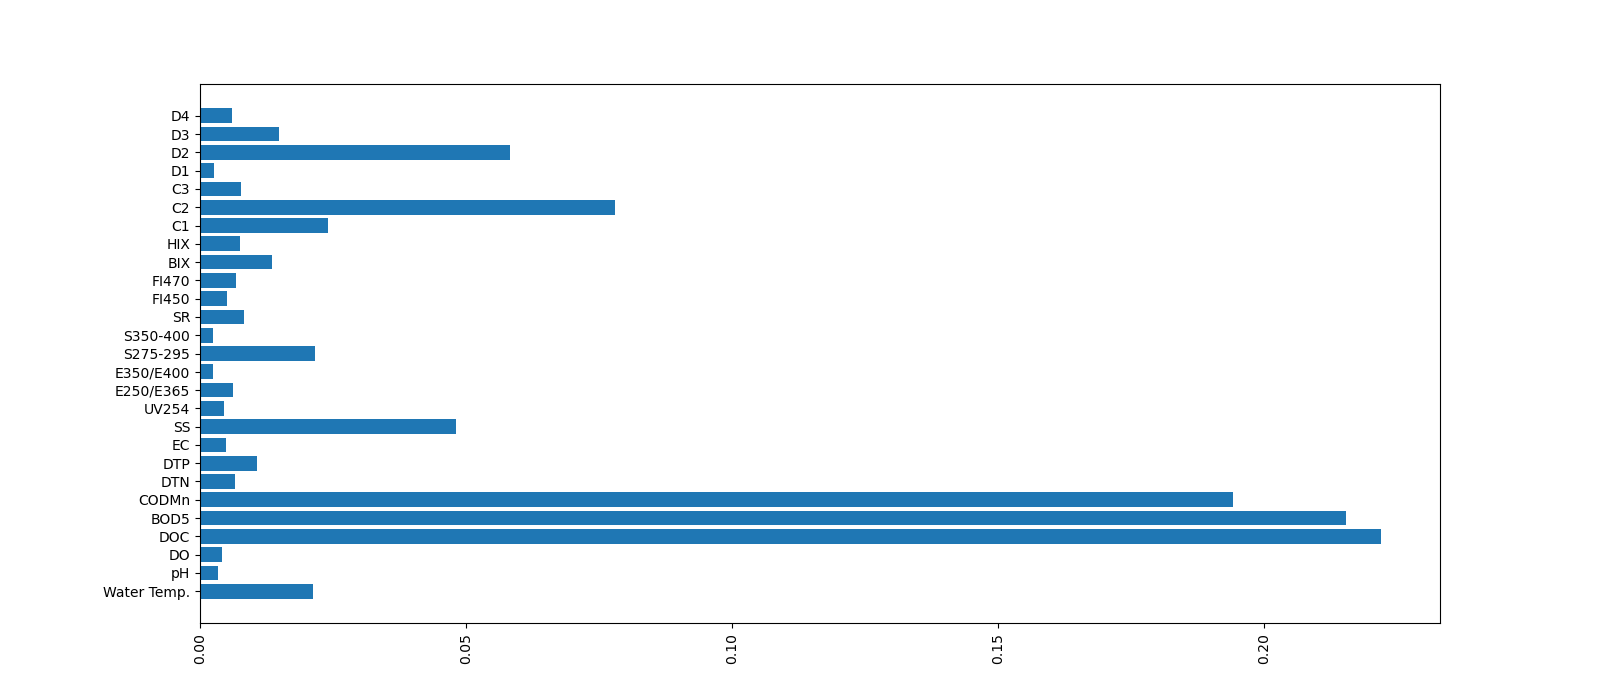
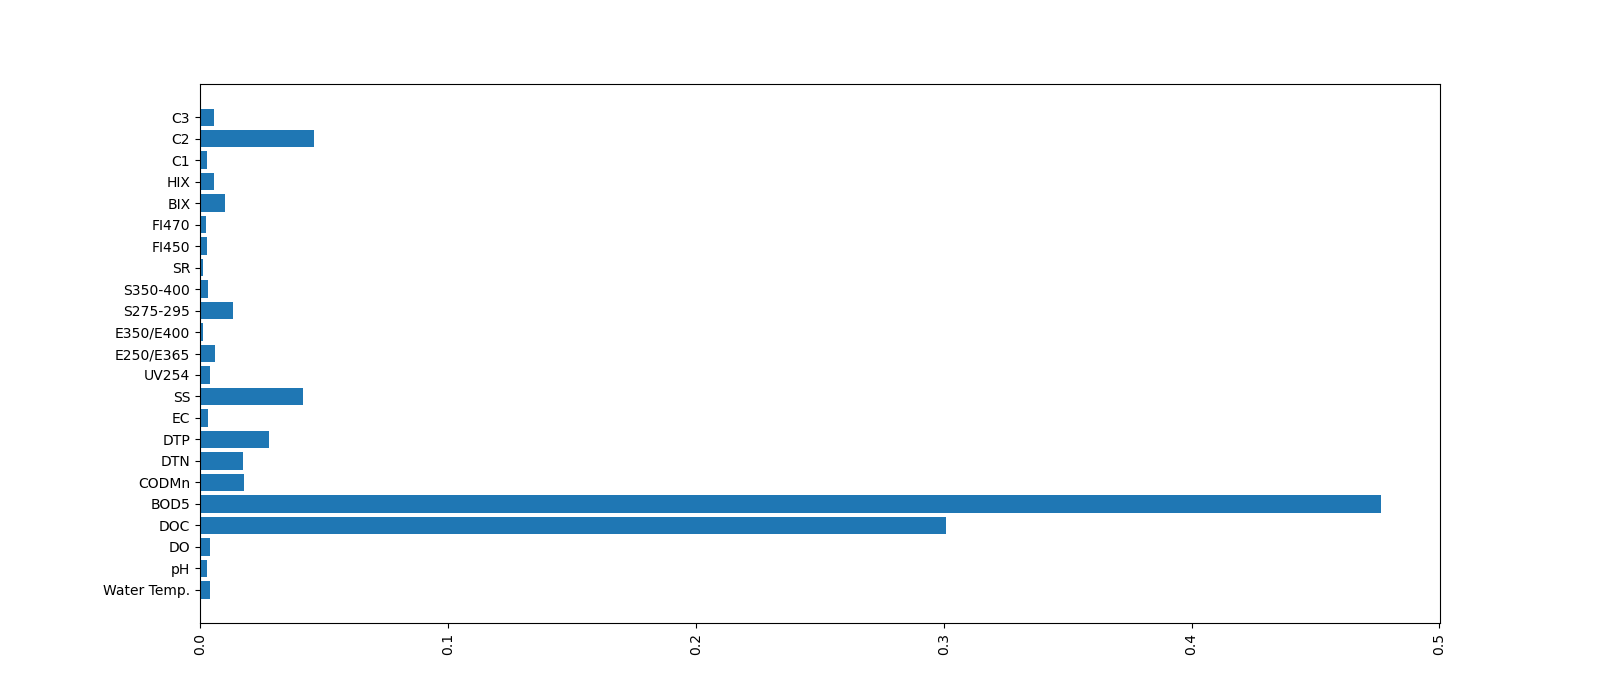
Use kfold

Changed region(s): [[0.0625, 0.15, 0.875, 0.87]]

diff --git a/common_kFold_train.py b/common_kFold_train.py
@@ -40,10 +40,9 @@ def run_xgboost(X_trains, y_trains, X_test, y_test, scaler, case='1'):
     r2_train = 1
 
     test_results = model.predict(X_test)
-    mae_test, r2_test = evaluate(
+    mae_test, r2_test, mse_test = evaluate(
         scaler, y_test, test_results, "xgboost", "test", case)
     # r2_test = mae_test
-    mse_test = mean_squared_error(y_test, test_results)
     return mae_train, r2_train, mae_test, r2_test, mse_test
 
 
@@ -58,70 +57,88 @@ def run_linear_regression(X_trains, y_trains, X_test, y_test, scaler, case='1'):
         #     scaler, y_train, train_results, "linear_regression", "train")
 
     test_results = model.predict(X_test)
-    mae_test, r2_test = evaluate(
+    mae_test, r2_test, mse_test = evaluate(
         scaler, y_test, test_results, 'linear_regression', 'test', case)
     mae_train = 1
-    mse_test = mean_squared_error(y_test, test_results)
     r2_train = 1
     # r2_test = mae_test
     # r2_test = mean_squared_error(y_test, test_results)
     return mae_train, r2_train, mae_test, r2_test, mse_test
 
 
-def run_ridge_regression(X_train, y_train, X_test, y_test, scaler):
+def run_ridge_regression(X_trains, y_trains, X_test, y_test, scaler):
     model = linear_model.Ridge(alpha=.5)
-    model.fit(X_train, y_train)
     name_model = 'ridge_regression'
-    train_results = model.predict(X_train)
-    mae_train, r2_train = evaluate(
-        scaler, y_train, train_results, name_model, "train")
-
+    for i in range(0, len(X_trains)):
+        x_train = X_trains[i]
+        y_train = y_trains[i]
+        model.fit(x_train, y_train)
+        train_results = model.predict(x_train)
+        # mae_train, r2_train = evaluate(
+        #     scaler, y_train, train_results, "linear_regression", "train")
+    mae_train = 1
+    r2_train = 1
     test_results = model.predict(X_test)
-    mae_test, r2_test = evaluate(
+    mae_test, r2_test, mse_test = evaluate(
         scaler, y_test, test_results, name_model, 'test')
-    return mae_train, r2_train, mae_test, r2_test
+    return mae_train, r2_train, mae_test, r2_test, mse_test
 
 
-def run_lasso_regression(X_train, y_train, X_test, y_test, scaler):
-    model = linear_model.Lasso(alpha=.1)
-    model.fit(X_train, y_train)
+def run_lasso_regression(X_trains, y_trains, X_test, y_test, scaler):
     name_model = 'lasso_regression'
-    train_results = model.predict(X_train)
-    mae_train, r2_train = evaluate(
-        scaler, y_train, train_results, name_model, "train")
+    model = linear_model.Lasso(alpha=.1)
+    for i in range(0, len(X_trains)):
+        x_train = X_trains[i]
+        y_train = y_trains[i]
+        model.fit(x_train, y_train)
+        train_results = model.predict(x_train)
+        # mae_train, r2_train = evaluate(
+        #     scaler, y_train, train_results, "linear_regression", "train")
+    mae_train = 1
+    r2_train = 1
 
     test_results = model.predict(X_test)
-    mae_test, r2_test = evaluate(
+    mae_test, r2_test, mse_test = evaluate(
         scaler, y_test, test_results, name_model, 'test')
-    return mae_train, r2_train, mae_test, r2_test
+    return mae_train, r2_train, mae_test, r2_test, mse_test
 
 
-def run_lasso_lars_regression(X_train, y_train, X_test, y_test, scaler):
-    model = linear_model.LassoLars(alpha=.1, normalize=False)
-    model.fit(X_train, y_train)
+def run_lasso_lars_regression(X_trains, y_trains, X_test, y_test, scaler):
     name_model = 'lasso_lars_regression'
-    train_results = model.predict(X_train)
-    mae_train, r2_train = evaluate(
-        scaler, y_train, train_results, name_model, "train")
+    model = linear_model.LassoLars(alpha=.1, normalize=False)
+    for i in range(0, len(X_trains)):
+        x_train = X_trains[i]
+        y_train = y_trains[i]
+        model.fit(x_train, y_train)
+        train_results = model.predict(x_train)
+        # mae_train, r2_train = evaluate(
+        #     scaler, y_train, train_results, "linear_regression", "train")
+    mae_train = 1
+    r2_train = 1
 
     test_results = model.predict(X_test)
-    mae_test, r2_test = evaluate(
+    mae_test, r2_test, mse_test = evaluate(
         scaler, y_test, test_results, name_model, 'test')
-    return mae_train, r2_train, mae_test, r2_test
+    return mae_train, r2_train, mae_test, r2_test, mse_test
 
 
-def run_bayesian_ridge_regression(X_train, y_train, X_test, y_test, scaler):
-    model = linear_model.BayesianRidge()
-    model.fit(X_train, y_train)
+def run_bayesian_ridge_regression(X_trains, y_trains, X_test, y_test, scaler):
     name_model = 'bayesian_ridge_regression'
-    train_results = model.predict(X_train)
-    mae_train, r2_train = evaluate(
-        scaler, y_train, train_results, name_model, "train")
+    model = linear_model.BayesianRidge()
+    for i in range(0, len(X_trains)):
+        x_train = X_trains[i]
+        y_train = y_trains[i]
+        model.fit(x_train, y_train)
+        train_results = model.predict(x_train)
+        # mae_train, r2_train = evaluate(
+        #     scaler, y_train, train_results, "linear_regression", "train")
+    mae_train = 1
+    r2_train = 1
 
     test_results = model.predict(X_test)
-    mae_test, r2_test = evaluate(
+    mae_test, r2_test, mse_test = evaluate(
         scaler, y_test, test_results, name_model, 'test')
-    return mae_train, r2_train, mae_test, r2_test
+    return mae_train, r2_train, mae_test, r2_test, mse_test
 
 
 def run_generalized_linear_regression(X_train, y_train, X_test, y_test, scaler):
@@ -361,9 +378,8 @@ def run_stacking(X_trains, y_trains, X_test, y_test, scaler):
     r2_train = 1
 
     test_results = models.predict(X_test)
-    mae_test, r2_test = evaluate(
+    mae_test, r2_test, mse_test = evaluate(
         scaler, y_test, test_results, "stacking_v2", "test")
-    mse_test = mean_squared_error(y_test, test_results)
     r2_train = 1
     # r2_test = mae_test
     # r2_test = mean_squared_error(y_test, test_results)
@@ -395,13 +411,12 @@ def evaluate(scaler, gt, pred, algo, phase_name, case='1'):
         os.makedirs(output_log)
     # gt = scaler.inverse_transform(gt)
     # pred = scaler.inverse_transform(pred)
-    # data_predicted = scaler[:,i]
-    # pred_ori = pred - scaler.min_[-1] # aqmesh
-    # pred_ori /= scaler.scale_[-1] # aqmesh
-    # gt_ori = gt - scaler.min_[-1] # aqmesh
-    # gt_ori /= scaler.scale_[-1] # aqmesh
-    pred_ori = pred
-    gt_ori = gt
+    pred_ori = pred - scaler.min_[-1]  # aqmesh
+    pred_ori /= scaler.scale_[-1]  # aqmesh
+    gt_ori = gt - scaler.min_[-1]  # aqmesh
+    gt_ori /= scaler.scale_[-1]  # aqmesh
+    # pred_ori = pred
+    # gt_ori = gt
 
     mae = mean_absolute_error(gt_ori, pred_ori)
     r2 = r2_score(gt_ori, pred_ori)
@@ -412,4 +427,5 @@ def evaluate(scaler, gt, pred, algo, phase_name, case='1'):
         output_log, "pred_{}_{}_{}.png".format(algo, phase_name, case)))
     plt.close()
     # mae = mean_squared_error(gt, pred)
-    return mae, r2
+    mse = mean_squared_error(gt_ori, pred_ori)
+    return mae, r2, mse

diff --git a/main_chl_kFold_train.py b/main_chl_kFold_train.py
@@ -64,7 +64,14 @@ if __name__ == "__main__":
     # }
     list_features = {
         # "water": ["Water Temp.", "pH", "DO", "DOC", "BOD5", "CODMn", "DTN", "DTP", "EC", "SS", "Chl-a"],
-        "water_1": ["Water Temp.", "pH", "DO", "DOC", "BOD5", "DTN", "DTP", "EC", "SS", "C1", "C2", "C3", "Chl-a"],
+
+        # "water_1": ["Water Temp.", "pH", "DO", "DOC", "BOD5", "CODMn", "DTN", "DTP", "C1", "C2", "C3", "EC", "SS",  "FI470", "BIX", "HIX", "Chl-a"],
+        # # !replace DTP and DTN
+        # "water_replace_DTN": ["Water Temp.", "pH", "DO", "DOC", "BOD5", "CODMn", "EC", "SS", "FI470", "BIX", "HIX", "Chl-a"],
+        # !replace BOD with optics
+        "water_replace_BOD": ["Water Temp.", "pH", "DO", "DOC", "CODMn", "DTN", "DTP", "EC", "SS", "FI470", "BIX", "HIX", "C2", "Chl-a"]
+        # # !replace DOC with optics
+        # "water_replace_DOC": ["Water Temp.", "pH", "DO", "BOD5", "CODMn", "DTN", "DTP", "EC", "SS", "FI470", "BIX", "HIX", "C2", "Chl-a"]
         # "water_1_uv": ["Water Temp.", "pH",  "BOD5", "CODMn",  "EC", "SS", "Chl-a"],
         # "water_uv": ["Water Temp.", "pH", "DO", "DOC", "BOD5", "CODMn", "DTN", "DTP", "EC", "SS","C1","C2","C3", "Chl-a"],
         # "water_test_fluorence": ["Water Temp.", "pH", "DO", "DOC", "BOD5", "CODMn", "DTP", "FI450", "FI470", "BIX", "HIX", "Chl-a"],
@@ -96,7 +103,10 @@ if __name__ == "__main__":
     }
     # models = ["linear_regression", "ridge_regression",
     #           "lasso_regression", "lasso_lars_regression", "bayesian_ridge_regression", "generalized_linear_regression", "kernel_ridge", "svm_regression", "KNeighbor_regression", "PLSRegression", "decision_tree_regression", "stacking"]
-    models = ["linear_regression", "xgboost", "stacking"]
+    # !TODO: model best for result
+    # models = ["linear_regression", "stacking"]
+    models = ["linear_regression", "stacking",  "xgboost",
+              "ridge_regression",  "bayesian_ridge_regression"]
     print(f'Total model using: {len(models)}')
     use_kfold = True
     range_using = 20
@@ -184,7 +194,7 @@ if __name__ == "__main__":
         # print(
         #     f'Model name: {model_name}  - min: {min_in_model} avg: {avg_value_model} max:{max_in_model}')
         avg_value_model = round(avg_value_model, 2)
-        print(f'Model name: {model_name} avg: {avg_value_model}')
+        mean_r2 = avg_value_model
 
         count_value_in_model = 0
         for each_couple_value in test_list:
@@ -192,7 +202,8 @@ if __name__ == "__main__":
             count_value_in_model += current_model_value['mae_test']
         avg_value_model = count_value_in_model/range_using
         avg_value_model = round(avg_value_model, 2)
-        print(f'Model name: {model_name} mean_mae: {avg_value_model}')
+        # print(f'Model name: {model_name} mean_mae: {avg_value_model}')
+        mean_mae = avg_value_model
 
         count_value_in_model = 0
         for each_couple_value in test_list:
@@ -200,4 +211,6 @@ if __name__ == "__main__":
             count_value_in_model += current_model_value['mse_test']
         avg_value_model = count_value_in_model/range_using
         avg_value_model = round(avg_value_model, 2)
-        print(f'Model name: {model_name} mean_mse: {avg_value_model}')
+        mean_mse = avg_value_model
+        # print(f'Model name: {model_name} mean_mse: {avg_value_model}')
+        print(f'{model_name} - {mean_r2} - {mean_mae} - {mean_mse}')

diff --git a/analysis/correlation_fi.py b/analysis/correlation_fi.py
@@ -149,13 +149,15 @@ def corrplot(data, size_scale=500, marker='s'):
 
 
 # dataset_frame = get_data_dataframe()
-# data = pd.read_csv('../data/clo.csv', usecols=["Water Temp.","pH","DO","DOC","BOD5","CODMn","DTN","DTP","EC","SS","UV254","E250/E365","E350/E400","S275-295","S350-400","SR","FI450","FI470","BIX","HIX","C1","C2","C3","D1","D2","D3","D4","Chl-a"])
-# plt.figure(figsize=(10, 10))
-# corrplot(data.corr())
-# plt.savefig('heatmap.png')
-
-data = pd.read_csv('../data/clo.csv', usecols=[
-    "FI450", "FI470", "BIX", "HIX", "C1", "C2", "C3", "D1", "D2", "D3", "D4", "Chl-a"])
+# !Code sử dụng từ đây là nguyên bản
+data = pd.read_csv('../data/clo.csv', usecols=["Water Temp.", "pH", "DO", "DOC", "BOD5", "CODMn", "DTN", "DTP", "EC", "SS",
+                   "UV254", "E250/E365", "E350/E400", "S275-295", "S350-400", "SR", "FI450", "FI470", "BIX", "HIX", "C1", "C2", "C3"])
 plt.figure(figsize=(10, 10))
 corrplot(data.corr())
-plt.savefig('heatmap_c_fluorence.png')
+plt.savefig('heatmap.png')
+
+# data = pd.read_csv('../data/clo.csv', usecols=[
+#     "FI450", "FI470", "BIX", "HIX", "C1", "C2", "C3", "D1", "D2", "D3", "D4", "Chl-a"])
+# plt.figure(figsize=(10, 10))
+# corrplot(data.corr())
+# plt.savefig('heatmap_c_fluorence.png')

diff --git a/analysis/xgb_fi.py b/analysis/xgb_fi.py
@@ -73,8 +73,10 @@ if __name__ == "__main__":
     # print(cols)
     # feature_importances_xgboost(dataset, cols, target)
 
-    dataset = pd.read_csv('../data/clo.csv', usecols=["Water Temp.","pH","DO","DOC","BOD5","CODMn","DTN","DTP","EC","SS","UV254","E250/E365","E350/E400","S275-295","S350-400","SR","FI450","FI470","BIX","HIX","C1","C2","C3","D1","D2","D3","D4","Chl-a"])
+    dataset = pd.read_csv('../data/clo.csv', usecols=["Water Temp.", "pH", "DO", "DOC", "BOD5", "CODMn", "DTN", "DTP", "EC", "SS",
+                          "UV254", "E250/E365", "E350/E400", "S275-295", "S350-400", "SR", "FI450", "FI470", "BIX", "HIX", "C1", "C2", "C3", "Chl-a"])
     dataset = dataset.dropna()
     cols = list(dataset.columns)
+    print(cols)
     target = "Chl-a"
-    feature_importances_xgboost(dataset, cols, target)
+    feature_importances_xgboost(dataset, cols, target, train_per=0.8)
